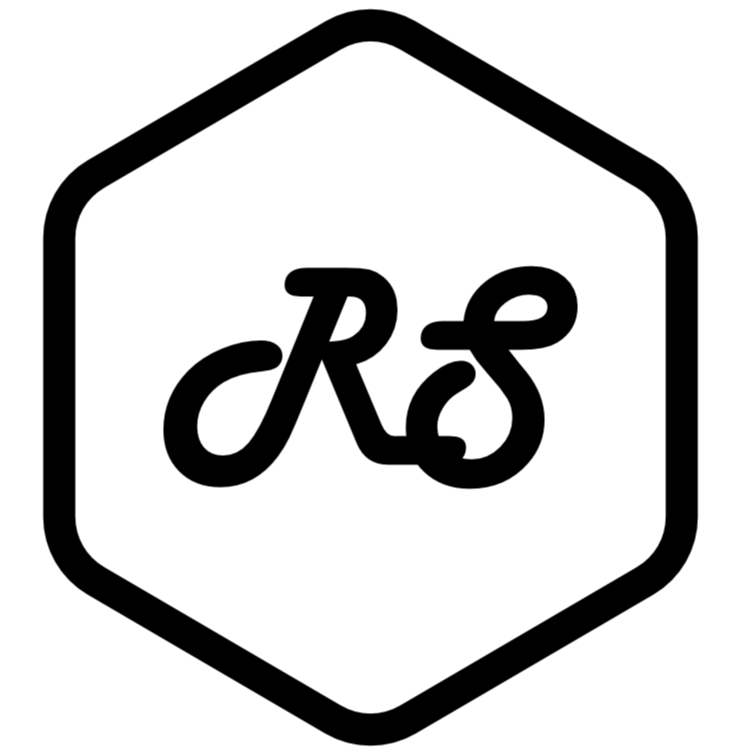
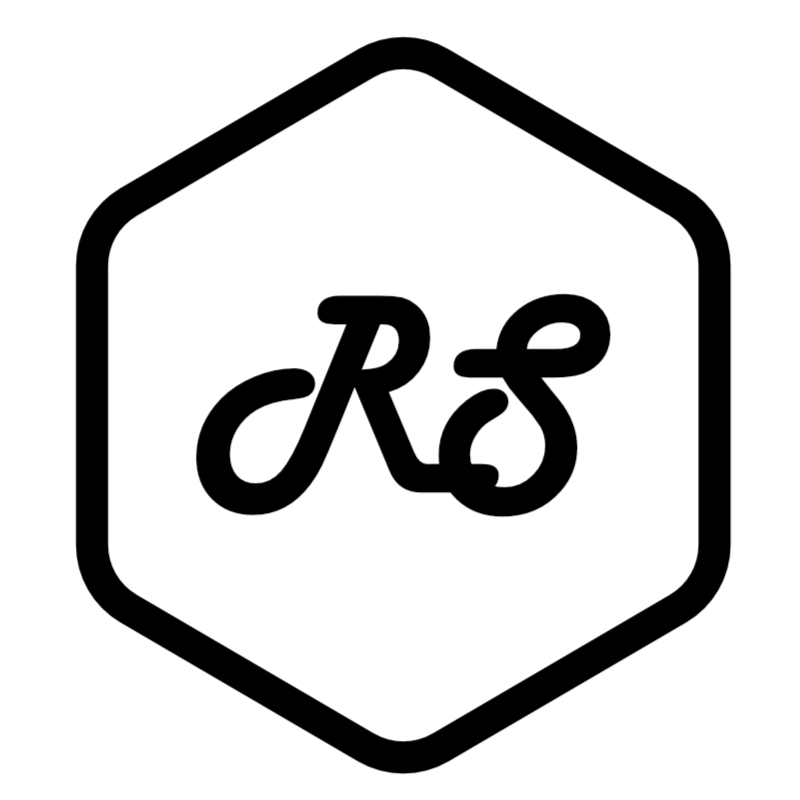
Updated styling

diff --git a/src/styles.css b/src/styles.css
@@ -239,6 +239,13 @@ button:disabled {
   text-align: center;
 }
 
+.title-app-icon {
+  width: 1.1rem;
+  height: 1.1rem;
+  flex: 0 0 auto;
+  border-radius: 0.25rem;
+}
+
 .title-activity {
   display: inline-flex;
   align-items: center;

diff --git a/src/main.tsx b/src/main.tsx
@@ -1081,6 +1081,7 @@ function App() {
           ) : null}
         </div>
         <h1 className="title-heading">
+          <img className="title-app-icon" src="/app-icon/icon.png" alt="" aria-hidden="true" />
           <span>Rest Stop</span>
           <span className={`title-activity ${titleActivity.status}`}>{titleActivity.label}</span>
         </h1>